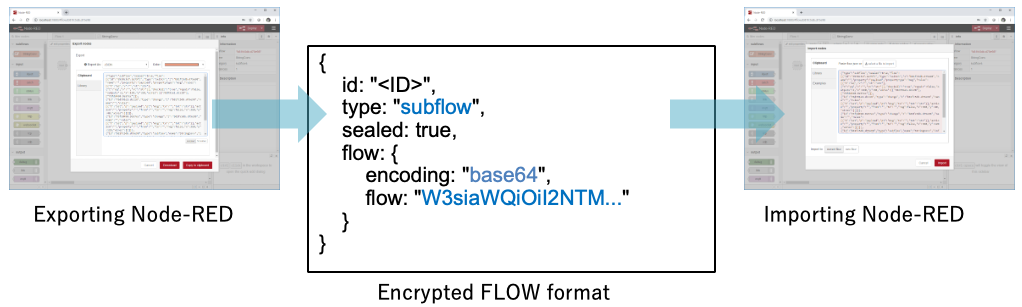
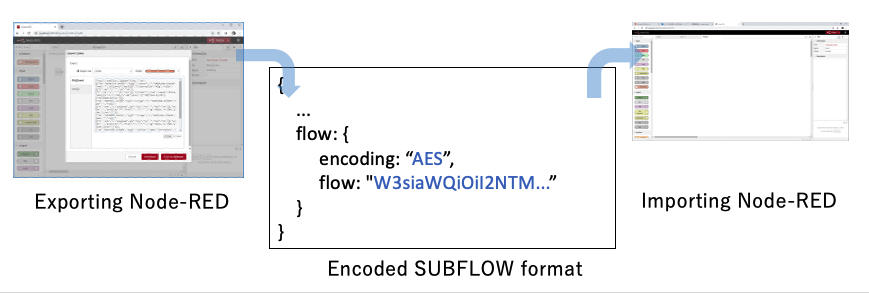
update design note reflecting comments and currenrt subflow packaging feature

Changed region(s): [[0.0, 0.0, 1.0, 1.0]]

diff --git a/designs/encrypt-subflow/README.md b/designs/encrypt-subflow/README.md
@@ -2,72 +2,76 @@
 state: draft
 ---
 
-# Encrypting SUBFLOW
+# Encoding SUBFLOW
 
-This proposal covers how a SUBFLOW can be encrypted when exported as reusable node.
+This proposal covers how a SUBFLOW can be encoded when exported as reusable node.
 
-Node-RED flow definitions are currently distributed as JSON data.  This JSON representation exposes algorithms represented in flow.  Thus, flow can be directly  or maniplated by other Node-RED instance that imported the JSON data or inspected manually.
+Node-RED flow definitions are currently distributed as JSON data.  This JSON representation exposes algorithms represented in flow.  Thus, flow can be directly or maniplated by other Node-RED instance that imported the JSON data or inspected manually.
 
 In some cases, Node-RED users do not want their flows to be looked or manipulated by unauthorized users because of intelectual property or other reasons.
 
-This design note aims to address this issue and proposes a flow encryption feature.
+This design note aims to address this issue and proposes a flow encoding/decoding feature.
 
 ### Authors
 
- - @HiroyasuNishiyama
+- @HiroyasuNishiyama
 
 ### Details
 
-The flow encryption function is realized as an extension of the redistribution feature of a subflow node proposed at https://github.com/node-red/designs/blob/master/designs/exportable-subflow/README.md.  In this SUBFLOW redistribution feature proposal, users that import sealed SUBFLOW is not possible to refer to the internals of the SUBFLOW.  However, the internal structure of the SUBFLOW is exposed in the JSON distribution format.  Therefore, the purpose of this design note is to prevent an unauthorized person from referring to the internal representation of a SUBFLOW by encrypting the internal structure of the SUBFLOW.
-
-Re-exporting encrypted SUBFLOW is not allowed.
+The flow encoding feature is realized as an extension of the feature
+for converting an exportable subflow to NPM node module proposed at
+https://github.com/node-red-hitachi/designs/tree/subflow2npm/designs/subflow-to-npm .  In this SUBFLOW conversion feature proposal, users that import a node created from a  SUBFLOW is not possible to refer to the internals of the
+SUBFLOW.  However, the internal structure of the SUBFLOW is exposed in
+the JSON distribution format included in the NPM package.  Therefore, the purpose of this design note is to prevent an unauthorized person from referring to the internal representation of a SUBFLOW by encoding the internal structure of the SUBFLOW.
 
 ![encryption](encryption.png)
 
-Since the flow encryption algorithm depends on use case, it should be selected by setting.
+Since the flow encoding algorithm depends on use case, it should be selected by user setting.
 
-#### Encrypted SUBFLOW Representation
+#### Encoded SUBFLOW Representation
 
 Exportable SUBFLOW adopts new flow format.  It embeds an array of nodes within a SUBFLOW in `flow` property.  When encrypting SUBFLOW, set the `flow` property to the following object instead of an array.
 
-|      | name     | type   | description                  |
-| ---- | -------- | ------ | ---------------------------- |
-| 1    | encoding | string | encoding method              |
-| 2    | flow     | string | encoded nodes within SUBFLOW |
-
-The `sealed` attribute of the SUBFLOW must be true when encryption is applied to it.
+|     | name     | type   | description                  |
+| --- | -------- | ------ | ---------------------------- |
+| 1   | encoding | string | encoding method              |
+| 2   | flow     | string | encoded nodes within SUBFLOW |
 
 ![encrypted-json](encrypted-json.png)
 
-#### Encryption Mechanism
+#### Encoding Mechanism
 
-The Node-RED runtime provides a means for installing functions for encrypting / decrypting flows.  This is specified by `encryptSubflow` property of `settings.js`.  `encryptSubflow` property points to an object with following properties:
+The template for packaging SUBFLOW JSON as NPM provides a means for specifying methods for encoding / decoding flows.  This is specified by `encodeSubflow` property of `settings.js`.  `encodeSubflow` property points to an object with following properties:
 
-|      | name    | type   | description                         |
-| ---- | ------- | ------ | ----------------------------------- |
-| 1    | methods | array  | encoding methods specifications     |
-| 2    | default | string | default encoding specification name |
+|     | name    | type   | description                         |
+| --- | ------- | ------ | ----------------------------------- |
+| 1   | methods | array  | encoding methods specifications     |
+| 2   | default | string | default encoding specification name |
 
 Encoding method specification is represented by following object:
 
-|      | name   | type     | description             |
-| ---- | ------ | -------- | ----------------------- |
-| 1    | name   | string   | name of encoding method |
-| 2    | encode | function | flow encode function    |
-| 3    | decode | function | flow decode function    |
+|     | name        | type     | description                                                                                                                                                               |
+| --- | ----------- | -------- | ------------------------------------------------------------------------------------------------------------------------------------------------------------------------- |
+| 1   | name        | string   | name of encoding method                                                                                                                                                   |
+| 2   | requiresKey | booleak  | `true` if encoding/decoding requires key, otherwise `false`                                                                                                               |
+| 3   | encode      | function | flow encode function that accepts an JavaScript object that represents encoded SUBFLOW's nodes array and an encoding key.  Returns string representation of encoded flow. |
+| 4   | decode      | function | flow decode function that accepts string encoded flow and a decoding key.  Returns a JavaScript object that represents array of nodes.                                    |
 
-When loading/saving encrypted/decrypted flow, it uses the `encode`/`decode` function with specified name.  The `default` property specifies default encofing method specification. 
+When loading/packaging decoded/eboded flow, it uses the `encode`/`decode` function with specified name.  The `default` property specifies default encofing method specification. 
+
+A tool or Editor UI for packaging NPM module from SUBFLOW JSON representation will provide selection interface or option for encoding method, or select default encoding method.
+
 **Example:**
 
 ```
-encryptSubflow: {
+encodeSubflow: {
     methods: [
         {
             name: "method1",
-            encode: function(flow) {
+            encode: function(flow, key) {
                // code for encoding flow
             },
-            decode: function (flow) {
+            decode: function (flow, key) {
                 // code for decoding flow
             },
         },
@@ -77,12 +81,23 @@ encryptSubflow: {
 }
 ```
 
-The runtime provides endpoints for encrypting / decrypting SUBFLOW to handle encrypted flows in the editor front end.
+
 
 #### Limitations
 
 To execute the flow, the Node-RED runtime needs to decrypt the flow.  Therefore, a flow can be acquired by using the corrected runtime.  This design note does not assume that such cases will be addressed.
 
+### Remaining Issues
+
+Editor interface for supporting encoding subflow needs following:
+
+- UI for specifying encoding scheme,
+
+- API for accessing `encodeSubflow` list
+  
+  These items will be updated after the details of SUBFLOW packaging by Editor have been decided.
+
 ## History
 
-  - 2020-02-22 - initial design note
+- 2020-02-22 - initial design note
+- 2021-03-15 - update design
